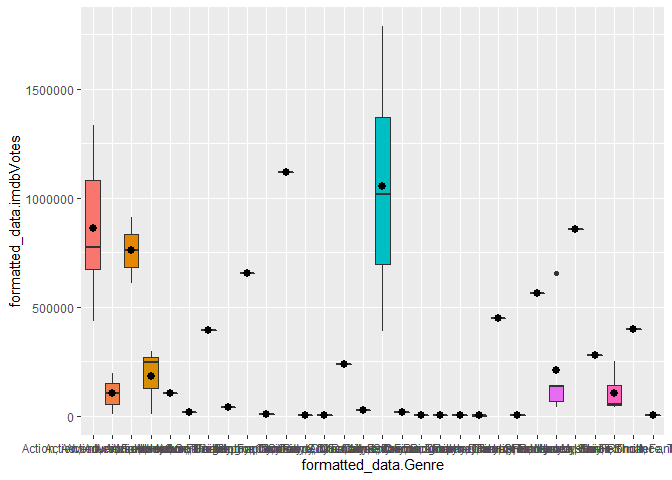
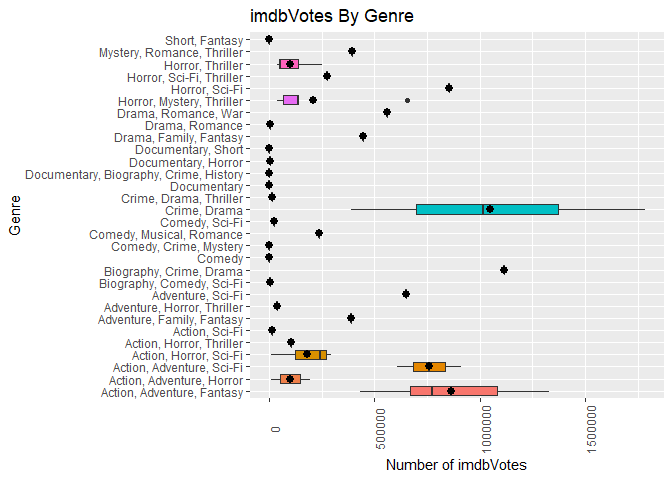
1:03_6_25_2022

diff --git a/README.md b/README.md
@@ -800,7 +800,9 @@ B %>%
   ggplot(aes(x = formatted_data.Genre, y = formatted_data.imdbVotes, fill = formatted_data.Genre)) +
   geom_boxplot() +
   stat_summary(fun.y="mean") +
-  theme(legend.position = "none")
+  theme(legend.position = "none",axis.text.x = element_text(angle = 90)) +
+  labs(x = "Genre", title = "imdbVotes By Genre", y="Number of imdbVotes") +
+  coord_flip()
 ```
 
     ## Warning: `fun.y` is deprecated. Use `fun` instead.
